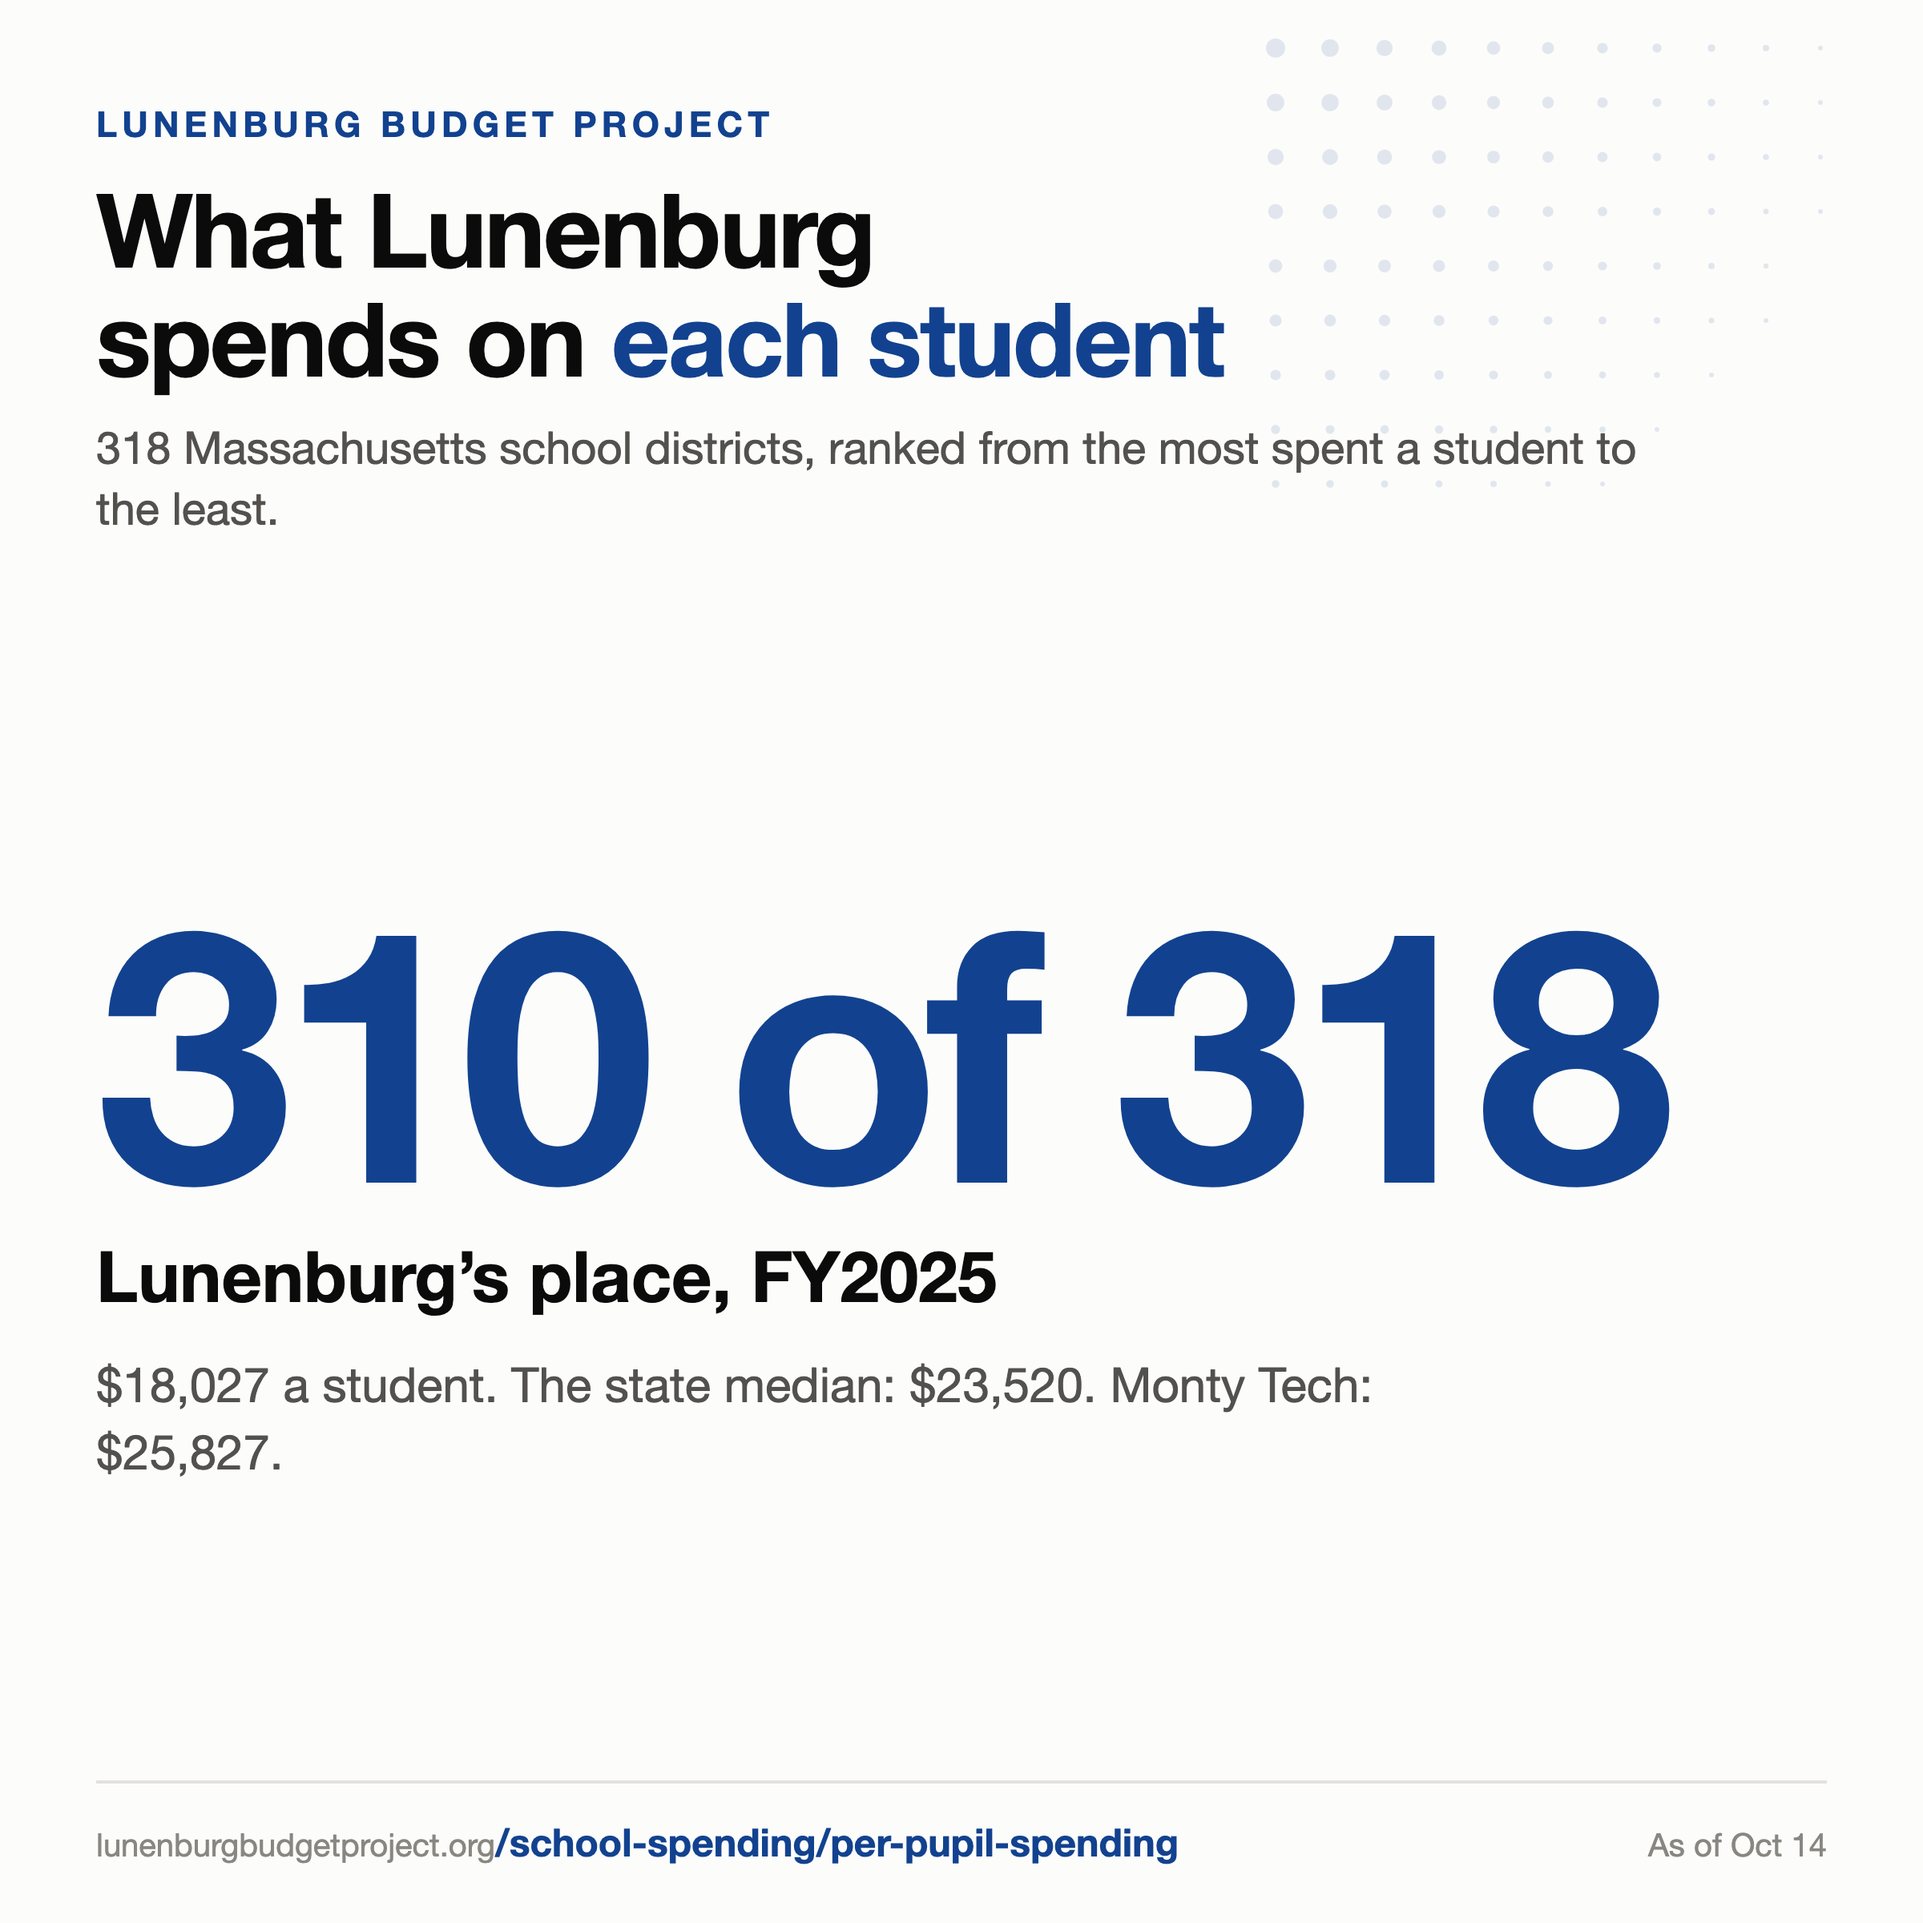
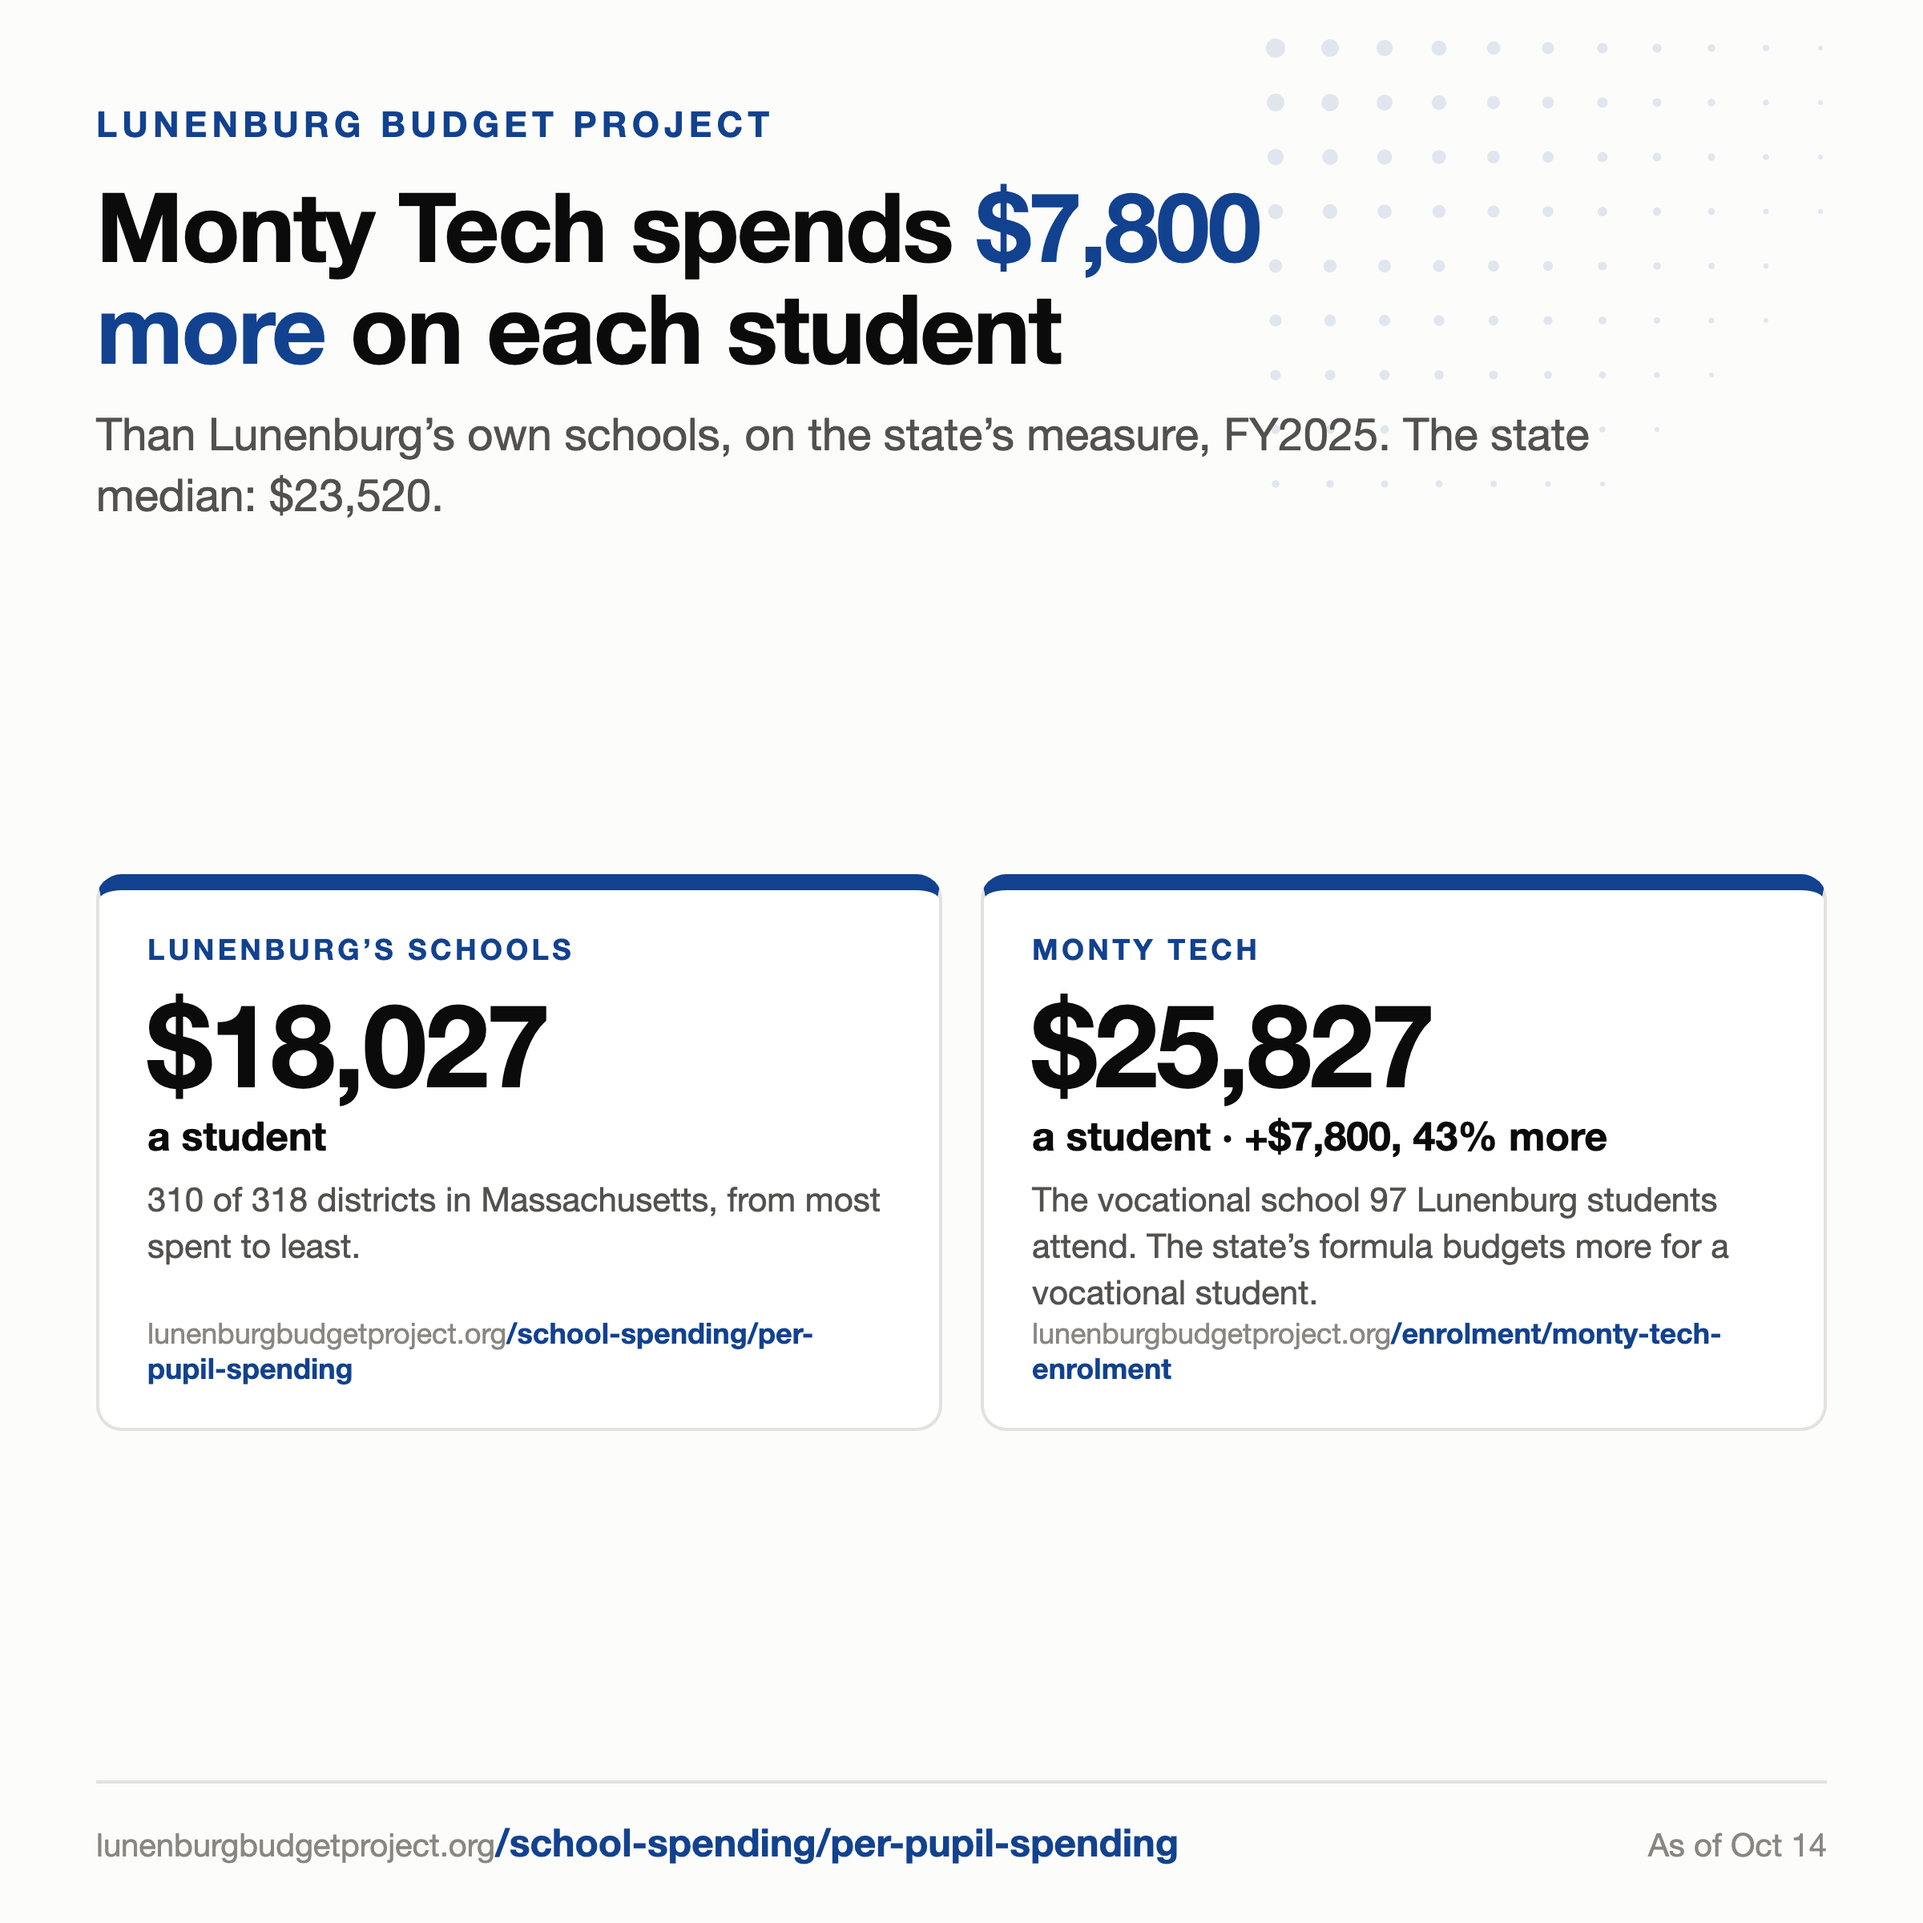
Facebook post: Monty Tech head to head, $7,800 more a student, with the vocational caveat on the image itself
Claude-Session: https://claude.ai/code/session_014fdUitnBS7xxmQNfQ1GHBV

Changed region(s): [[0.0312, 0.4375, 0.9375, 0.7812], [0.0312, 0.0938, 0.8438, 0.2812]]

diff --git a/social/posts/2026-10-14-what-we-spend/image.html b/social/posts/2026-10-14-what-we-spend/image.html
@@ -8,7 +8,7 @@ body{width:1200px;height:1200px;background:#fcfcfb;color:#0b0b0b;position:relati
 .motif{position:absolute;left:0;top:0;z-index:0}
 .frame{position:relative;z-index:1;height:100%;display:flex;flex-direction:column}
 .k{font-weight:700;font-size:22px;letter-spacing:.14em;color:#12428f}
-h1{margin:18px 0 0;font-weight:800;font-size:64px;line-height:1.06;letter-spacing:-.02em;max-width:1080px;text-wrap:balance}
+h1{margin:18px 0 0;font-weight:800;font-size:60px;line-height:1.06;letter-spacing:-.02em;max-width:1080px;text-wrap:balance}
 h1 em{font-style:normal;color:#12428f}
 .sub{font-size:28px;line-height:1.35;color:#52514e;margin:16px 0 0;max-width:980px}
 .body{margin-top:40px;flex:1;display:flex;flex-direction:column;justify-content:center;padding-bottom:40px}
@@ -47,8 +47,8 @@ h1 em{font-style:normal;color:#12428f}
 <svg class="motif" width="1200" height="1200" viewBox="0 0 1200 1200"><g opacity=".11"><circle cx="1136" cy="30" r="1.5" fill="#12428f"/><circle cx="1136" cy="64" r="1.5" fill="#12428f"/><circle cx="1136" cy="98" r="1.5" fill="#12428f"/><circle cx="1136" cy="132" r="1.5" fill="#12428f"/><circle cx="1102" cy="30" r="2.0" fill="#12428f"/><circle cx="1102" cy="64" r="1.9" fill="#12428f"/><circle cx="1102" cy="98" r="1.9" fill="#12428f"/><circle cx="1102" cy="132" r="1.7" fill="#12428f"/><circle cx="1102" cy="166" r="1.6" fill="#12428f"/><circle cx="1102" cy="200" r="1.5" fill="#12428f"/><circle cx="1068" cy="30" r="2.4" fill="#12428f"/><circle cx="1068" cy="64" r="2.4" fill="#12428f"/><circle cx="1068" cy="98" r="2.3" fill="#12428f"/><circle cx="1068" cy="132" r="2.2" fill="#12428f"/><circle cx="1068" cy="166" r="2.0" fill="#12428f"/><circle cx="1068" cy="200" r="1.8" fill="#12428f"/><circle cx="1068" cy="234" r="1.5" fill="#12428f"/><circle cx="1034" cy="30" r="2.9" fill="#12428f"/><circle cx="1034" cy="64" r="2.8" fill="#12428f"/><circle cx="1034" cy="98" r="2.7" fill="#12428f"/><circle cx="1034" cy="132" r="2.6" fill="#12428f"/><circle cx="1034" cy="166" r="2.4" fill="#12428f"/><circle cx="1034" cy="200" r="2.1" fill="#12428f"/><circle cx="1034" cy="234" r="1.9" fill="#12428f"/><circle cx="1034" cy="268" r="1.5" fill="#12428f"/><circle cx="1000" cy="30" r="3.3" fill="#12428f"/><circle cx="1000" cy="64" r="3.3" fill="#12428f"/><circle cx="1000" cy="98" r="3.2" fill="#12428f"/><circle cx="1000" cy="132" r="3.0" fill="#12428f"/><circle cx="1000" cy="166" r="2.8" fill="#12428f"/><circle cx="1000" cy="200" r="2.5" fill="#12428f"/><circle cx="1000" cy="234" r="2.2" fill="#12428f"/><circle cx="1000" cy="268" r="1.9" fill="#12428f"/><circle cx="1000" cy="302" r="1.5" fill="#12428f"/><circle cx="966" cy="30" r="3.8" fill="#12428f"/><circle cx="966" cy="64" r="3.7" fill="#12428f"/><circle cx="966" cy="98" r="3.6" fill="#12428f"/><circle cx="966" cy="132" r="3.4" fill="#12428f"/><circle cx="966" cy="166" r="3.1" fill="#12428f"/><circle cx="966" cy="200" r="2.8" fill="#12428f"/><circle cx="966" cy="234" r="2.5" fill="#12428f"/><circle cx="966" cy="268" r="2.1" fill="#12428f"/><circle cx="966" cy="302" r="1.8" fill="#12428f"/><circle cx="932" cy="30" r="4.2" fill="#12428f"/><circle cx="932" cy="64" r="4.1" fill="#12428f"/><circle cx="932" cy="98" r="4.0" fill="#12428f"/><circle cx="932" cy="132" r="3.8" fill="#12428f"/><circle cx="932" cy="166" r="3.5" fill="#12428f"/><circle cx="932" cy="200" r="3.1" fill="#12428f"/><circle cx="932" cy="234" r="2.8" fill="#12428f"/><circle cx="932" cy="268" r="2.4" fill="#12428f"/><circle cx="932" cy="302" r="2.0" fill="#12428f"/><circle cx="898" cy="30" r="4.7" fill="#12428f"/><circle cx="898" cy="64" r="4.6" fill="#12428f"/><circle cx="898" cy="98" r="4.4" fill="#12428f"/><circle cx="898" cy="132" r="4.1" fill="#12428f"/><circle cx="898" cy="166" r="3.8" fill="#12428f"/><circle cx="898" cy="200" r="3.4" fill="#12428f"/><circle cx="898" cy="234" r="3.0" fill="#12428f"/><circle cx="898" cy="268" r="2.6" fill="#12428f"/><circle cx="898" cy="302" r="2.2" fill="#12428f"/><circle cx="864" cy="30" r="5.1" fill="#12428f"/><circle cx="864" cy="64" r="5.0" fill="#12428f"/><circle cx="864" cy="98" r="4.7" fill="#12428f"/><circle cx="864" cy="132" r="4.4" fill="#12428f"/><circle cx="864" cy="166" r="4.0" fill="#12428f"/><circle cx="864" cy="200" r="3.6" fill="#12428f"/><circle cx="864" cy="234" r="3.2" fill="#12428f"/><circle cx="864" cy="268" r="2.7" fill="#12428f"/><circle cx="864" cy="302" r="2.3" fill="#12428f"/><circle cx="830" cy="30" r="5.5" fill="#12428f"/><circle cx="830" cy="64" r="5.4" fill="#12428f"/><circle cx="830" cy="98" r="5.0" fill="#12428f"/><circle cx="830" cy="132" r="4.6" fill="#12428f"/><circle cx="830" cy="166" r="4.1" fill="#12428f"/><circle cx="830" cy="200" r="3.7" fill="#12428f"/><circle cx="830" cy="234" r="3.3" fill="#12428f"/><circle cx="830" cy="268" r="2.8" fill="#12428f"/><circle cx="830" cy="302" r="2.4" fill="#12428f"/><circle cx="796" cy="30" r="6.0" fill="#12428f"/><circle cx="796" cy="64" r="5.5" fill="#12428f"/><circle cx="796" cy="98" r="5.1" fill="#12428f"/><circle cx="796" cy="132" r="4.7" fill="#12428f"/><circle cx="796" cy="166" r="4.2" fill="#12428f"/><circle cx="796" cy="200" r="3.8" fill="#12428f"/><circle cx="796" cy="234" r="3.3" fill="#12428f"/><circle cx="796" cy="268" r="2.9" fill="#12428f"/><circle cx="796" cy="302" r="2.4" fill="#12428f"/></g></svg>
 <div class="frame">
 <div class="k">LUNENBURG BUDGET PROJECT</div>
-<h1>What Lunenburg spends on <em>each student</em></h1>
-<p class="sub">318 Massachusetts school districts, ranked from the most spent a student to the least.</p>
-<div class="body"><div class="hero"><div class="hv">310 of 318</div><div class="hl">Lunenburg’s place, FY2025</div><div class="ht">$18,027 a student. The state median: $23,520. Monty Tech: $25,827.</div></div></div>
+<h1>Monty Tech spends <em>$7,800 more</em> on each student</h1>
+<p class="sub">Than Lunenburg’s own schools, on the state’s measure, FY2025. The state median: $23,520.</p>
+<div class="body"><div class="tiles"><div class="t"><div class="te">LUNENBURG’S SCHOOLS</div><div class="tn">$18,027</div><div class="tu">a student</div><div class="td">310 of 318 districts in Massachusetts, from most spent to least.</div><div class="tp">lunenburgbudgetproject.org<b>/school-spending/per-pupil-spending</b></div></div><div class="t"><div class="te">MONTY TECH</div><div class="tn">$25,827</div><div class="tu">a student · +$7,800, 43% more</div><div class="td">The vocational school 97 Lunenburg students attend. The state’s formula budgets more for a vocational student.</div><div class="tp">lunenburgbudgetproject.org<b>/enrolment/monty-tech-enrolment</b></div></div></div></div>
 <div class="foot"><span>lunenburgbudgetproject.org<b>/school-spending/per-pupil-spending</b></span><span>As of Oct 14</span></div>
 </div></body></html>
